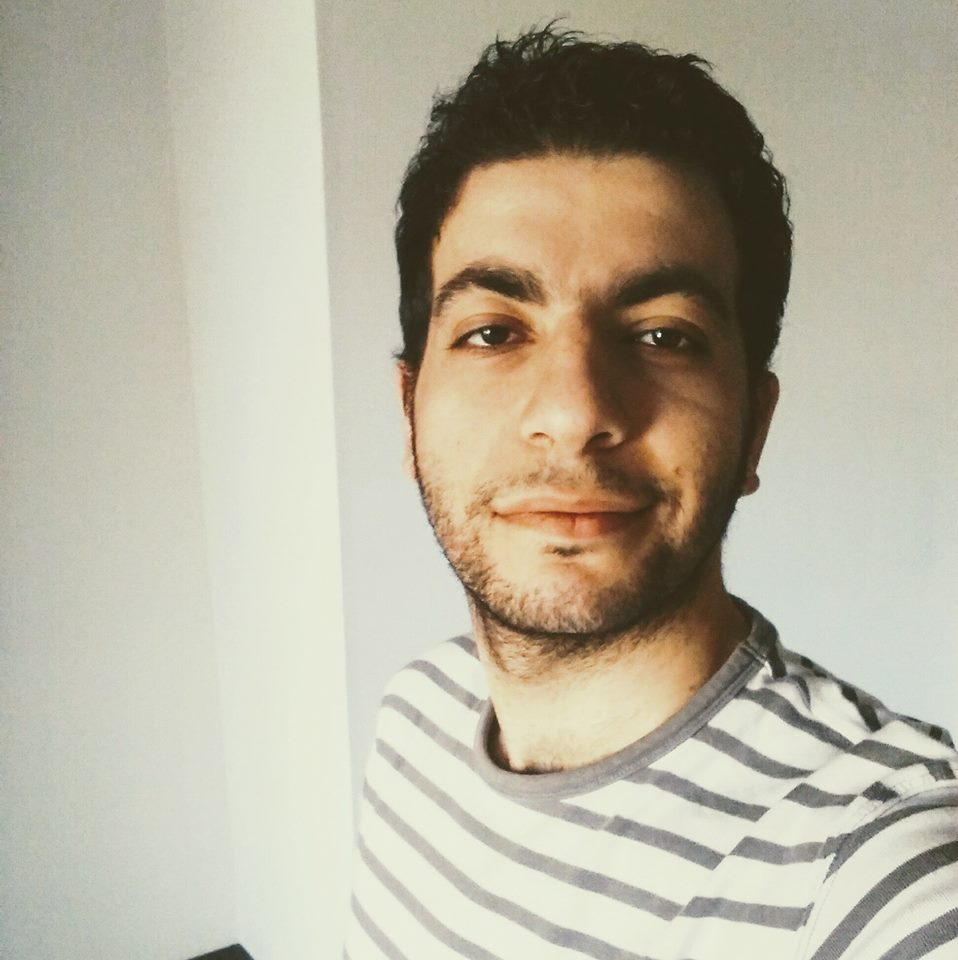
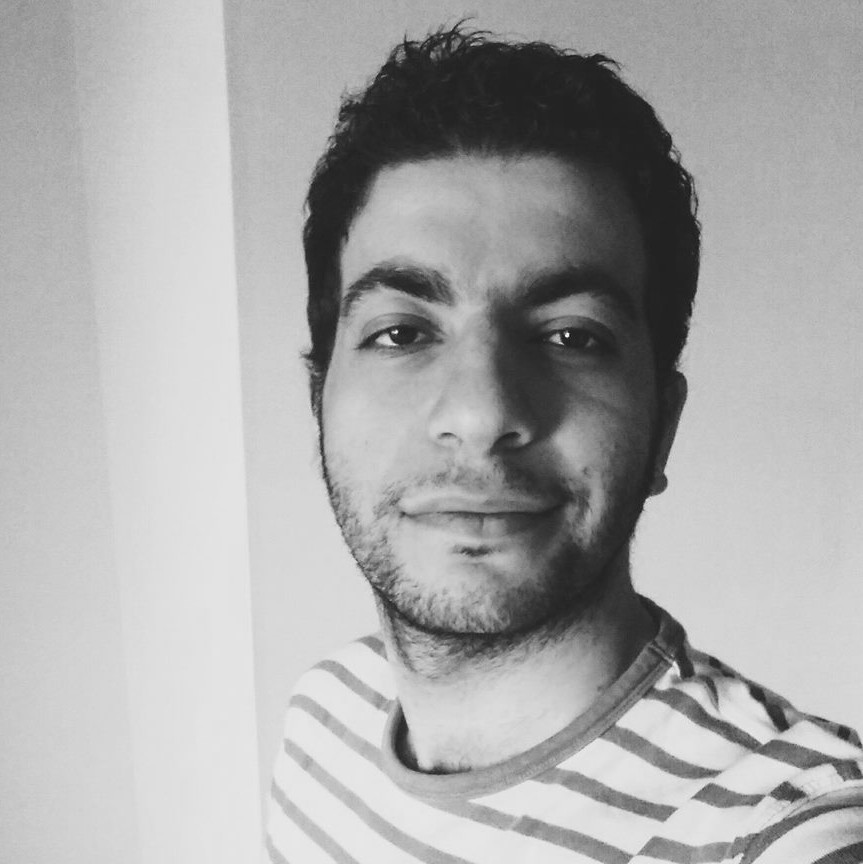
pic change

diff --git a/src/components/BannerSB.js b/src/components/BannerSB.js
@@ -58,7 +58,7 @@ class BannerSB extends Component {
               <div className="container image-section">
                 <img
                   className="image-card"
-                  src={process.env.PUBLIC_URL + "/img/ramy4.jpeg"}
+                  src={process.env.PUBLIC_URL + "/img/ramy.jpg"}
                 />
               </div>
             </div>
